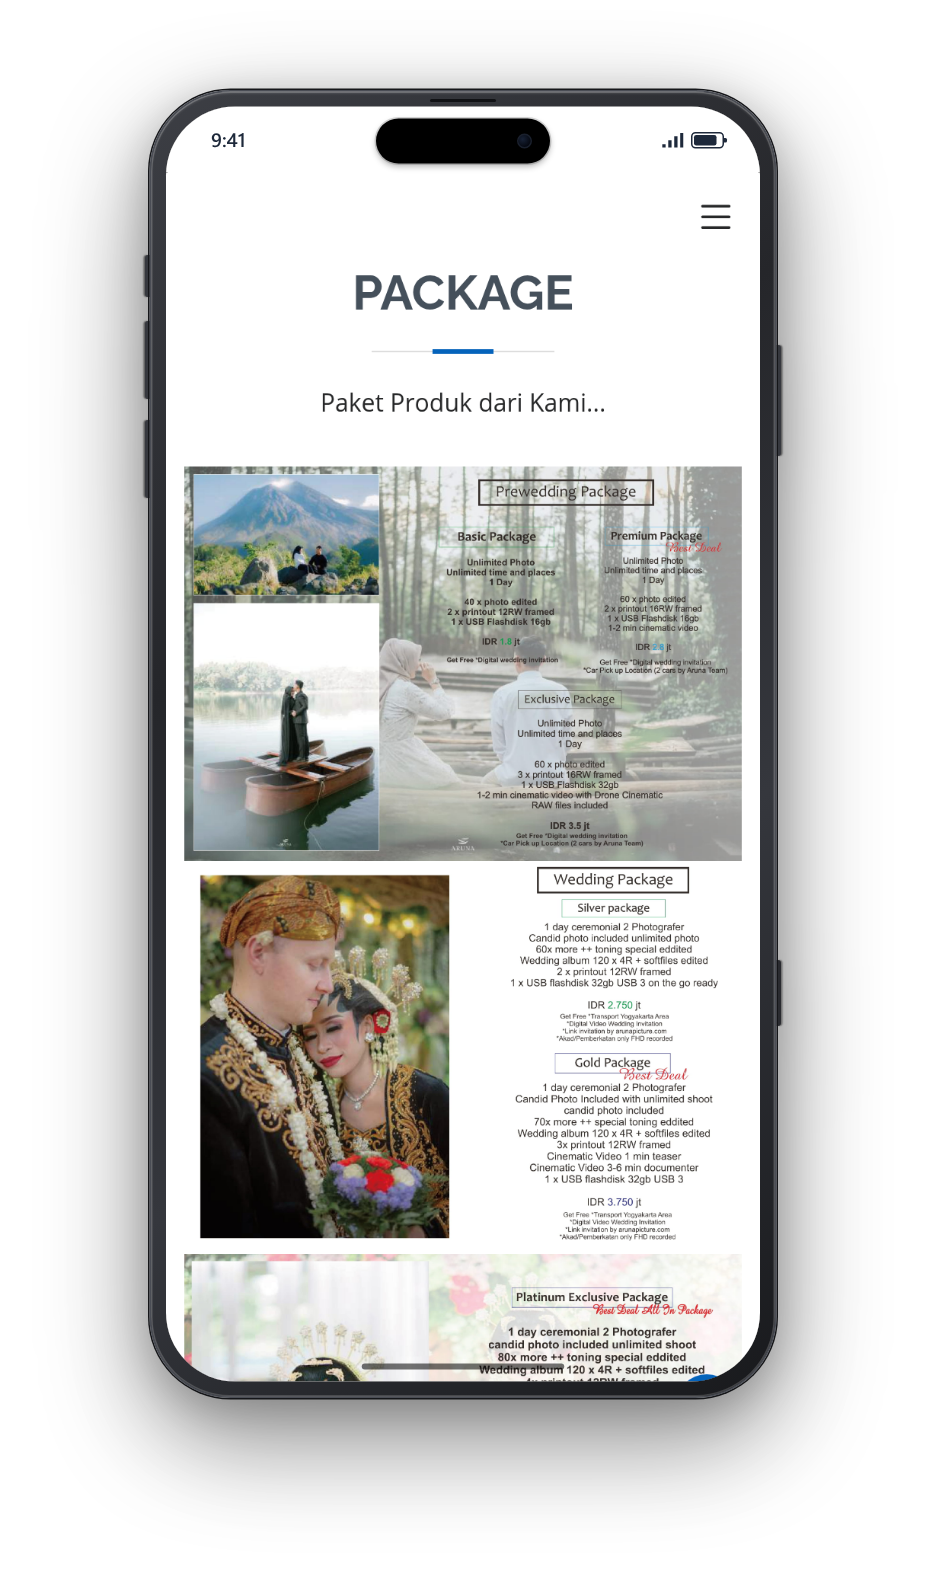
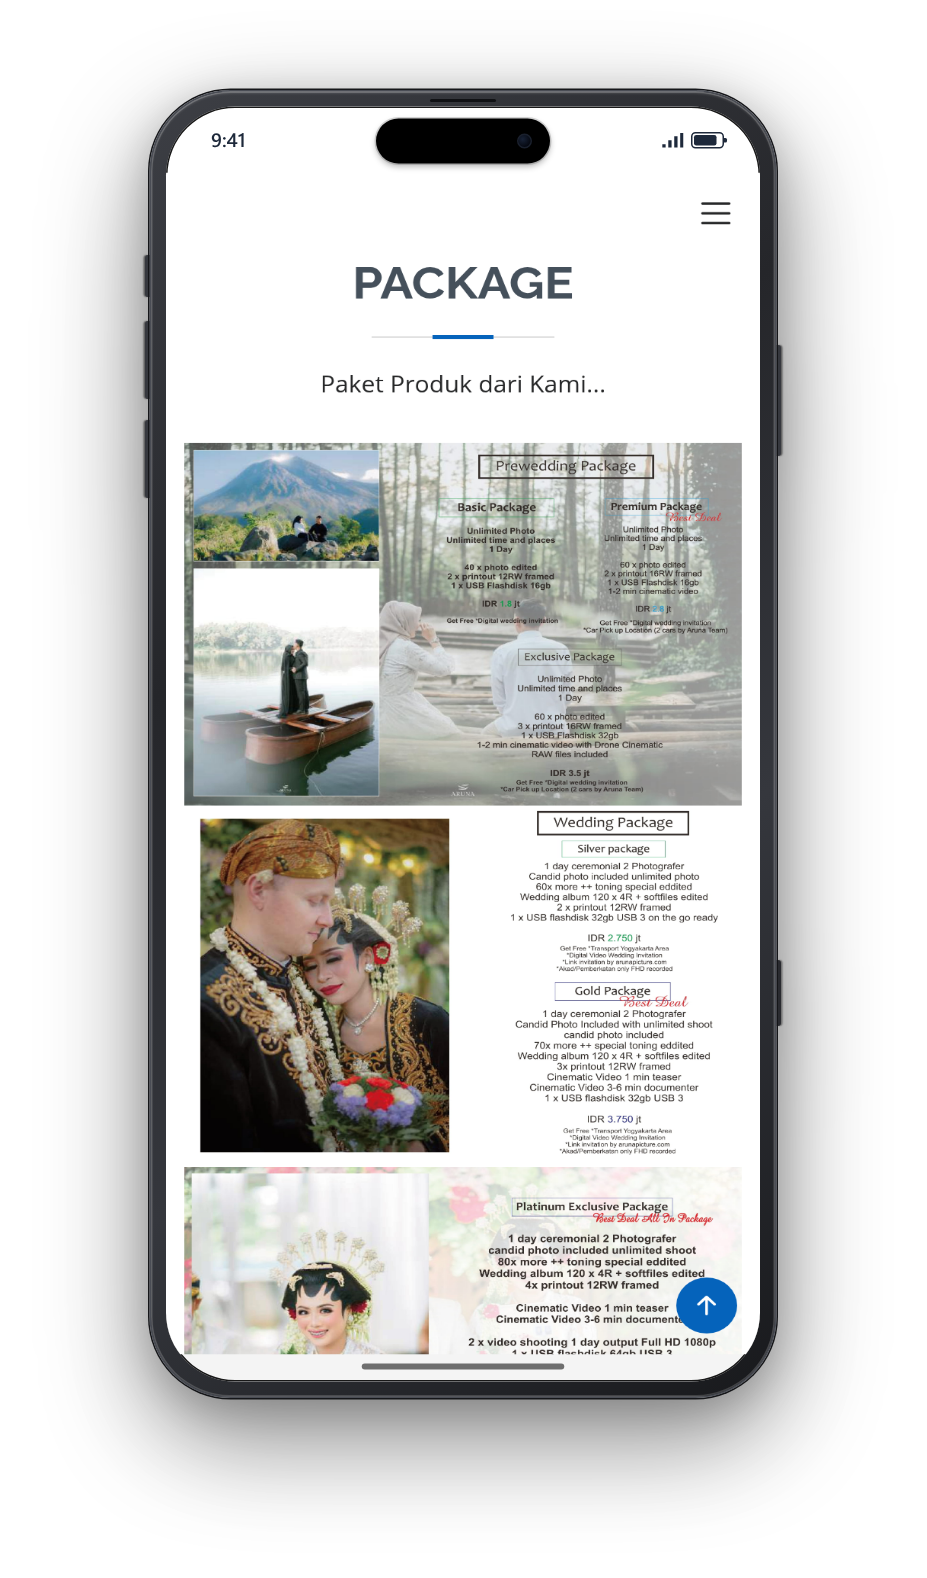
docs: strip QA automation section and elevate mobile mockups with safe area padding

Changed region(s): [[0.1812, 0.1553, 0.8155, 0.9005], [0.7551, 0.1242, 0.7853, 0.1553]]

diff --git a/README.md b/README.md
@@ -81,33 +81,6 @@ Open [http://localhost:8080](http://localhost:8080) in your browser.
 
 ---
 
-## Testing & QA Automation
-
-Automated testing and QA verification are powered by the system's `qa-toolkit`:
-
-### 1. Playwright Test Suite
-End-to-end smoke verification covering hero section DOM rendering and booking inquiry form availability:
-
-```bash
-cd /home/widifirmaan/Projects/qa-toolkit
-npx playwright test tests/playwright/portograph.spec.js
-```
-
-### 2. Cypress E2E Verification
-Cross-browser regression testing on DOM structure and production stability:
-
-```bash
-cd /home/widifirmaan/Projects/qa-toolkit
-npx cypress run --spec cypress/e2e/portograph.cy.js
-```
-
-### 3. QA Execution Summary
-- **Playwright**: 2 tests passed (Hero Stage & Booking Form `#contact` DOM Mount)
-- **Cypress**: 2 specs passed (Template Homepage DOM Mount & Booking Form Verification)
-- **Status**: ✅ All automated tests verified and passing
-
----
-
 ## Author
 
 Made with ❤ by **Widi Firmansyah** / [widifirmaan.web.id](https://widifirmaan.web.id)
